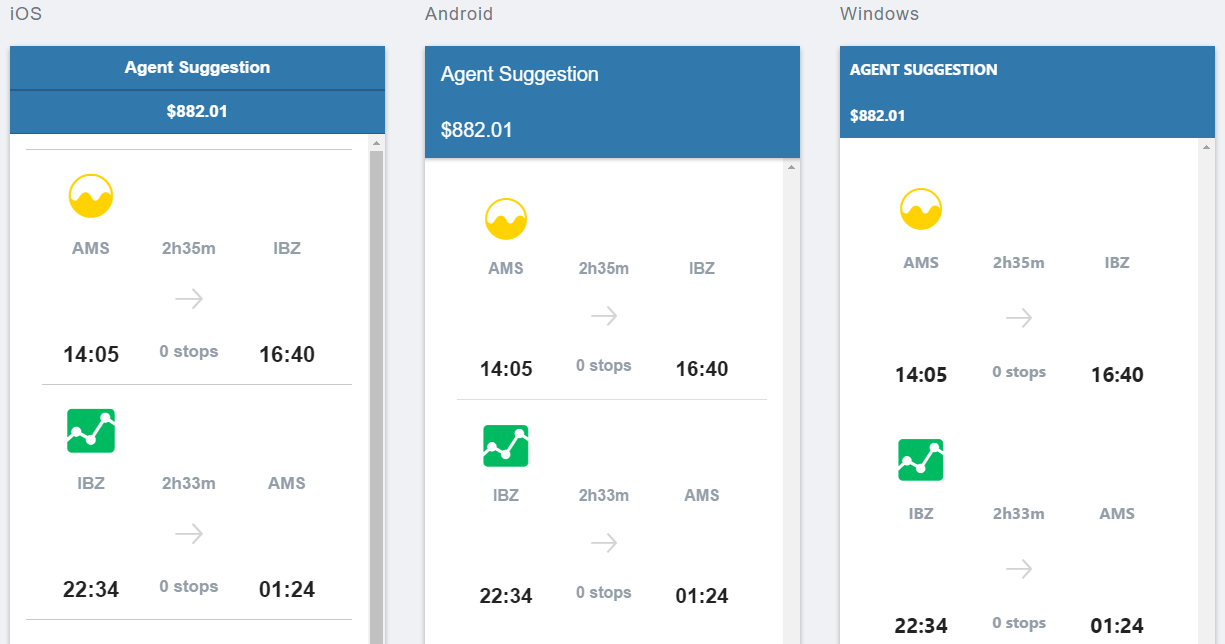
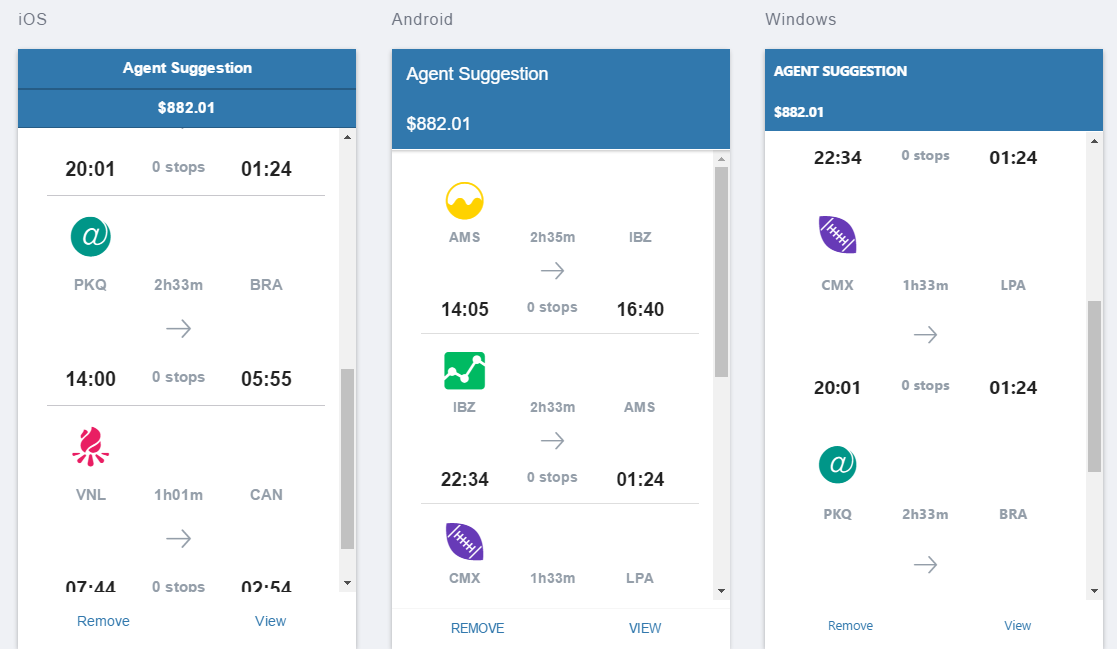
initial footer buttons implemented

diff --git a/src/pages/home/home.ts b/src/pages/home/home.ts
@@ -28,6 +28,33 @@ export class HomePage {
       stops: 0,
       time_left: "2h33m",
       to: "AMS"
+    },
+    {
+      arrival: "01:24",
+      company_icon_name: "ios-american-football",
+      departure: "20:01",
+      from: "CMX",
+      stops: 0,
+      time_left: "1h33m",
+      to: "LPA"
+    },
+    {
+      arrival: "05:55",
+      company_icon_name: "ios-at",
+      departure: "14:00",
+      from: "PKQ",
+      stops: 0,
+      time_left: "2h33m",
+      to: "BRA"
+    },
+    {
+      arrival: "02:54",
+      company_icon_name: "ios-bonfire",
+      departure: "07:44",
+      from: "VNL",
+      stops: 0,
+      time_left: "1h01m",
+      to: "CAN"
     }
   ];
 

diff --git a/src/pages/home/home.scss b/src/pages/home/home.scss
@@ -1,18 +1,30 @@
 page-home {
-    .ion-ios-analytics {
+    ion-icon {
         font-size: 3.2em;
+    }
+    .ion-ios-analytics {
         color: #ffd200;
     }
     
     .ion-md-analytics {
-        font-size: 3.2em;
         color: #00ba62;
     }
 
+    .ion-ios-at {
+        color: #009688;
+    }
+
+    .ion-ios-american-football {
+        color: #673ab7;
+    }
+
+    .ion-ios-bonfire {
+        color: #e91e63;
+    }
 
     ion-icon[name='ios-arrow-round-forward-outline'] {
         font-size: 3.2em;
-        color: lightgray;
+        color: #949ea9;
     }
 
     .hour-text {

diff --git a/src/pages/home/home.html b/src/pages/home/home.html
@@ -10,6 +10,7 @@
 </ion-header>
 
 <ion-content padding>
+
   <ion-list>
     <ion-item *ngFor="let flight of flights">
       <ion-row>
@@ -36,4 +37,23 @@
       </ion-row>
     </ion-item>
   </ion-list>
+  
 </ion-content>
+
+<ion-footer>
+  <ion-buttons>
+    <ion-row>
+      <ion-col width-50>
+        <button ion-button full clear>
+          Remove
+        </button>
+      </ion-col>
+      <ion-col width-50>
+        <button ion-button full clear>
+          View
+        </button>
+      </ion-col>
+    </ion-row>
+    
+  </ion-buttons>
+</ion-footer>
